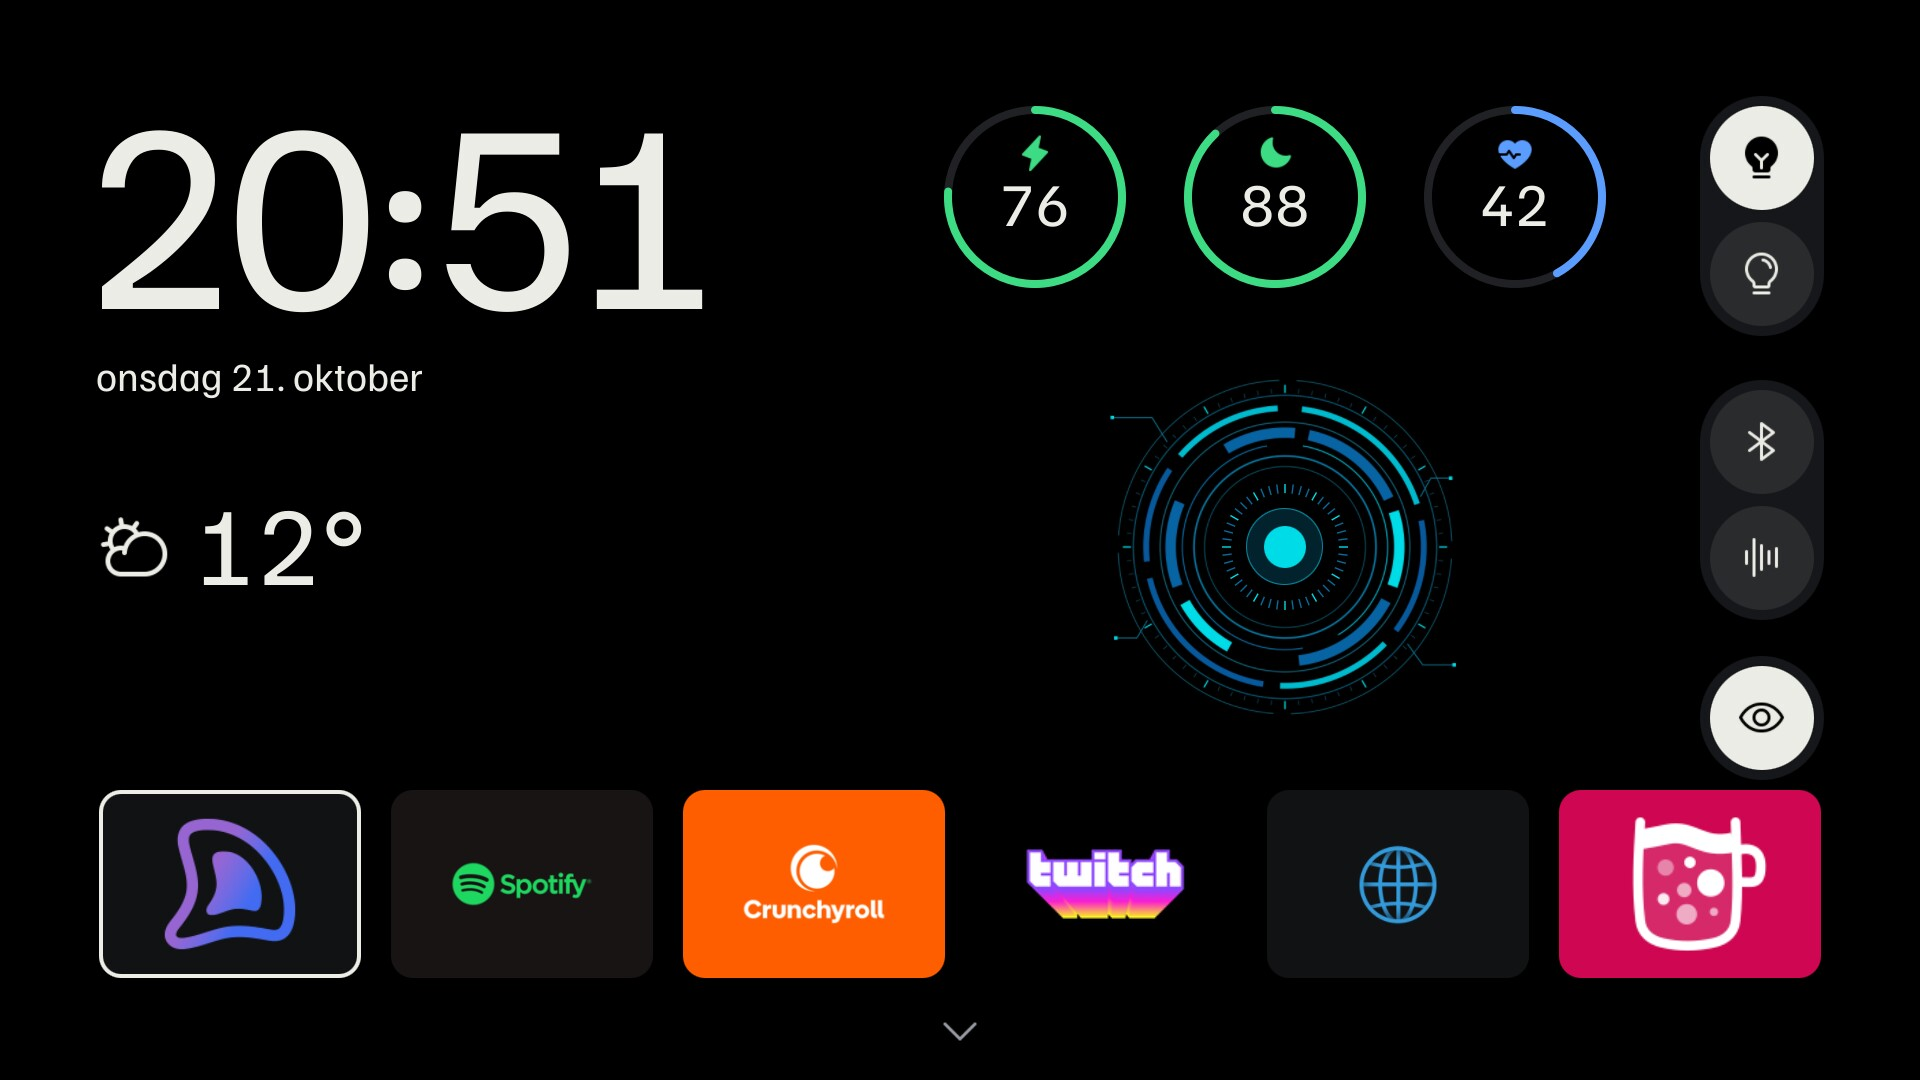
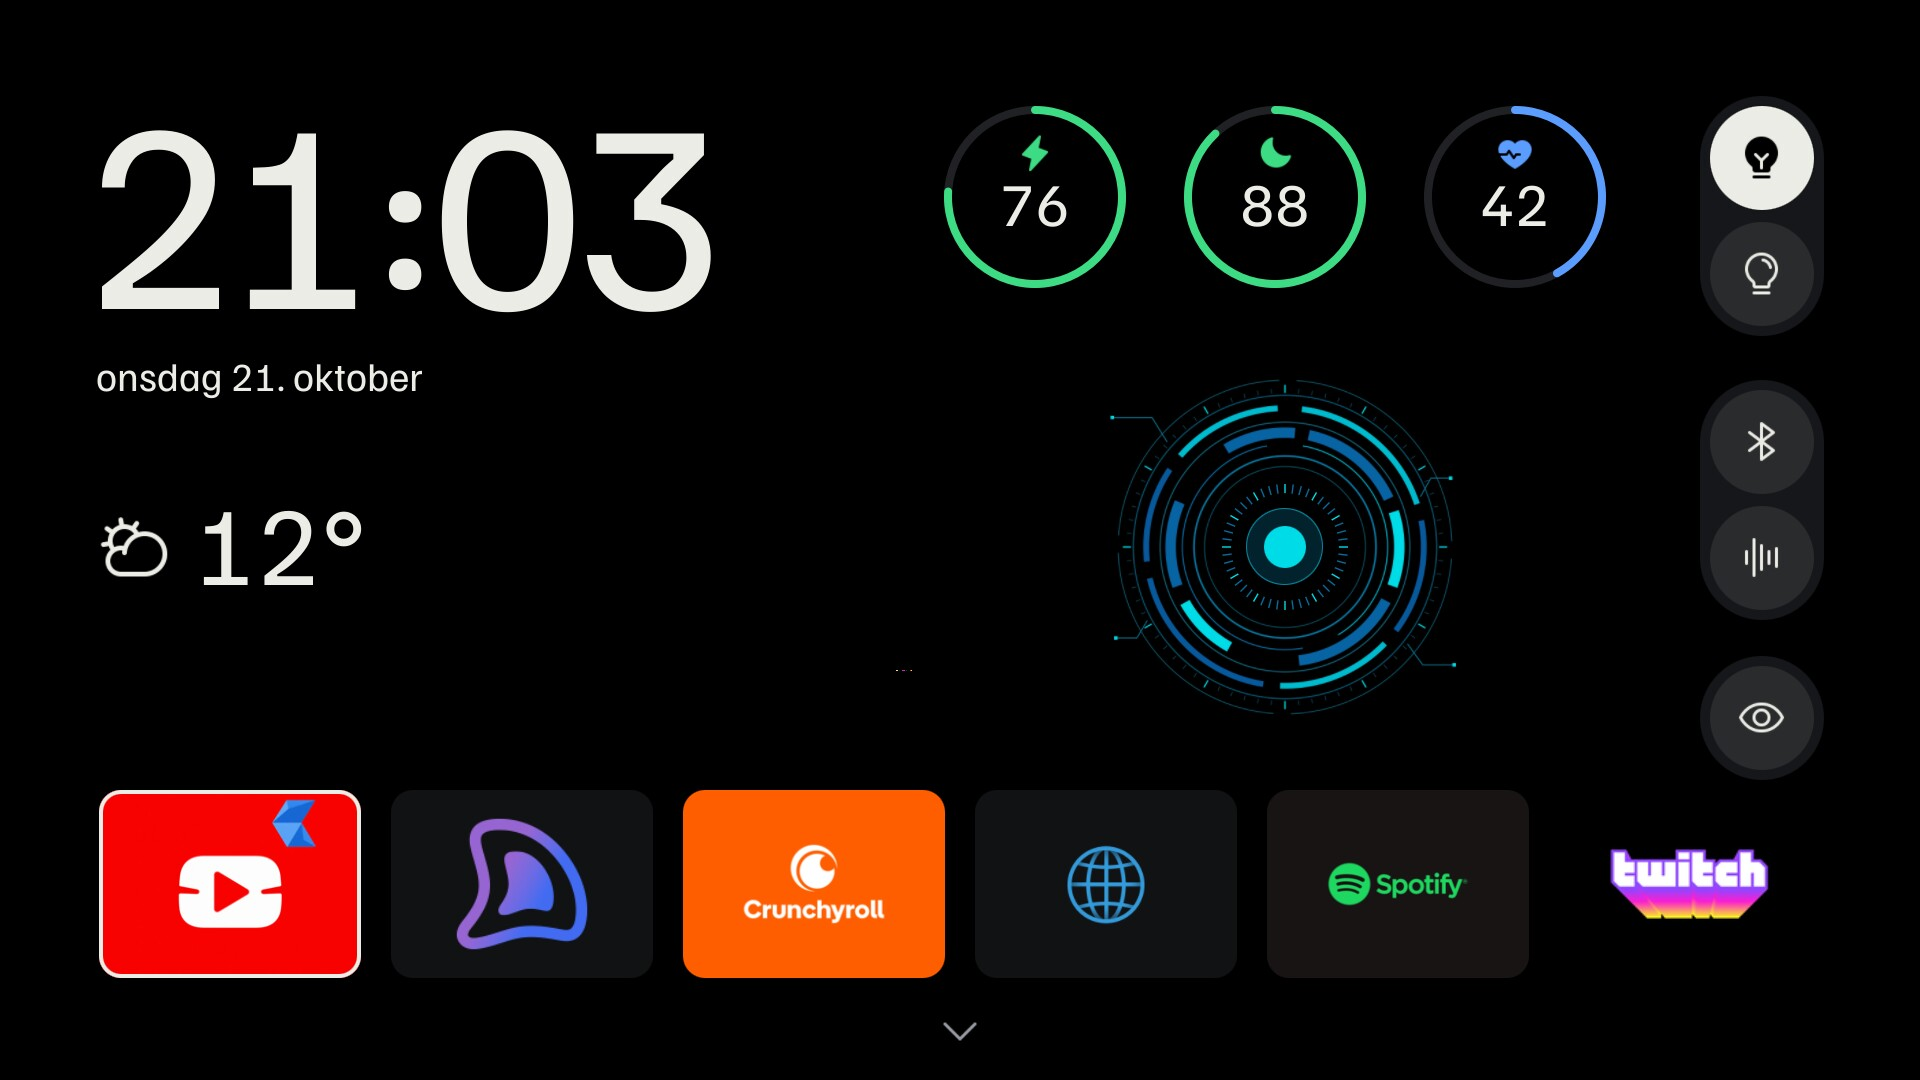
feat(tv): toggle preserved and warm picture profiles

diff --git a/tv/launcher/ui/PictureProfile.qml b/tv/launcher/ui/PictureProfile.qml
@@ -3,6 +3,8 @@ import WebOSServices 1.0
 
 Item {
     id: setting
+    readonly property string normalMode: "cinema"
+    readonly property string warmMode: "expert2"
     property bool active: false
     property var value: null
     property bool pending: false
@@ -12,7 +14,7 @@ Item {
     onActiveChanged: if (active) refresh()
     function read() {
         request = service.call("luna://com.webos.settingsservice", "/getSystemSettings",
-            JSON.stringify({category: "picture", keys: ["eyeComfortMode"]}));
+            JSON.stringify({category: "picture", keys: ["pictureMode"]}));
         timeout.restart();
     }
     function refresh() { if (!pending) { operation = "read"; read(); } }
@@ -33,13 +35,13 @@ Item {
             if (setting.operation === "write") {
                 setting.operation = "verify"; setting.read(); return;
             }
-            var current = data.settings && data.settings.eyeComfortMode;
-            if (current !== "on" && current !== "off") { setting.fail(); return; }
-            setting.value = current === "on";
+            var current = data.settings && data.settings.pictureMode;
+            if (typeof current !== "string" || current.length === 0) { setting.fail(); return; }
+            setting.value = current === setting.warmMode;
             if (setting.operation === "toggle") {
                 setting.operation = "write";
                 setting.request = service.call("luna://com.webos.settingsservice", "/setSystemSettings",
-                    JSON.stringify({category: "picture", settings: {eyeComfortMode: current === "on" ? "off" : "on"}}));
+                    JSON.stringify({category: "picture", settings: {pictureMode: current === setting.warmMode ? setting.normalMode : setting.warmMode}}));
                 timeout.restart(); return;
             }
             setting.request = null; setting.operation = ""; setting.pending = false; setting.failed = false;

diff --git a/tv/launcher/OpenHome.qml b/tv/launcher/OpenHome.qml
@@ -74,7 +74,7 @@ FocusScope {
         if (agentOpen) { agent.speaking = !agent.speaking; return; }
         if (region === "controls") {
             if (controlIndex === 4) agentOpen = true;
-            else if (controlIndex === 5) blueLight.toggle();
+            else if (controlIndex === 5) pictureProfile.toggle();
             else send(commands[controlIndex]);
         } else launch((drawer ? apps : dockApps)[appIndex]);
     }
@@ -219,7 +219,7 @@ FocusScope {
             event.accepted = true;
         }
     }
-    OH.BlueLight { id: blueLight; active: home.visible && uiController.homeShown }
+    OH.PictureProfile { id: pictureProfile; active: home.visible && uiController.homeShown }
     Rectangle { anchors.fill: parent; color: "#000000" }
     // Absorb pointer/wheel input so LG's hidden shelves cannot steal focus.
     MouseArea {
@@ -268,13 +268,13 @@ FocusScope {
         Rectangle { x: r(1700); y: r(656); width: r(124); height: width; radius: width / 2; color: "#16171a" }
         OH.Control {
             x: r(1710); y: r(666); width: r(104); height: width
-            label: "Reducer blåt lys"; glyph: "eye"; primary: blueLight.value === true
-            enabled: blueLight.value !== null
+            label: "Varm natteprofil"; glyph: "eye"; primary: pictureProfile.value === true
+            enabled: pictureProfile.value !== null
             opacity: enabled ? 1 : 0.4
             selected: home.region === "controls" && home.controlIndex === 5
-            pending: blueLight.pending; failed: blueLight.failed
+            pending: pictureProfile.pending; failed: pictureProfile.failed
             onHovered: home.selectControl(5)
-            onActivated: { home.selectControl(5); blueLight.toggle(); }
+            onActivated: { home.selectControl(5); pictureProfile.toggle(); }
         }
         Item {
             id: agentKey; x: r(1110); y: r(372); width: r(350); height: width

diff --git a/tv/DESIGN.md b/tv/DESIGN.md
@@ -11,7 +11,7 @@ interface. This replaces the first worded design saved in commit `fd3497b`.
 - Three recovery rings use Axum's actual Charge/Rest/Effort scores, with the
   dashboard's filled Lightning, Moon and Heartbeat symbols and colours.
 - Two vertical control capsules: lights on/off, then Bluetooth/optical.
-- The eye button has the same 104px size and 124px capsule as the other controls. It toggles the TV’s actual blue-light filter: white is on, dark is off; unknown state is dimmed.
+- The eye button has the same 104px size and 124px capsule as the other controls. It switches picture profiles: white is the warm/dim Expert Dark Room profile, dark is the preserved Cinema profile; unknown state is dimmed.
 - Six large app icons below, without captions. The LG Apps application
   (`com.webos.app.discovery`) is filtered from both the dock and the drawer.
 - A down chevron opens the complete app grid; Back or Up from the first row closes it. No drawer X.
@@ -30,10 +30,18 @@ renders them through React's static renderer, then `rsvg-convert` compiles PNGs
 for LG's Qt build, which has no SVG image loader. The package's MIT license is
 included in the TV bundle. This adds no new JavaScript dependency.
 
-The eye button uses Home’s native Luna settings service for `picture.eyeComfortMode`.
-It reads before toggling, writes only `on`/`off`, and reads back the result. It does
-not predict state. A timeout/error clears the value; periodic/return-to-Home reads
-recover it. Unlike room controls, this is a local TV setting, not an Axum command.
+The eye button uses Home’s native Luna settings service for `picture.pictureMode`.
+It reads before switching between `cinema` and `expert2`, then reads back the
+result. A timeout/error clears the state; periodic/return-to-Home reads recover it.
+It changes no individual picture settings when clicked and leaves LG's global
+Reduce Blue Light switch alone. The two configured profiles belong to the current
+default-input SDR context. Other inputs/HDR profiles are separate.
+
+Cinema preserves the owner's current settings, including backlight100,
+brightness65, Warm3, red gain0, green gain−10 and blue gain−30. Expert Dark Room
+copies its other core picture controls, with backlight30, green gain−15 and blue
+gain−40 for a dimmer, warmer view. RGB offsets remain unchanged. The numerical
+brightness setting controls black level, so dimming uses the backlight instead.
 
 ## Agent
 

diff --git a/tv/FINDINGS.md b/tv/FINDINGS.md
@@ -258,5 +258,28 @@ Tested the enlarged button off and back on; independent Luna reads confirmed
 Warm 3 persists in both states. Homebrew’s RF1705 details page recognises the
 installed v1.2.5 and shows its disabled Update button (already current).
 
+### Separate warm/dim picture profile
+
+The owner chose a profile switch instead of changing the current profile further.
+Preserved the exact current Cinema settings, including the previously applied
+red0/green−10/blue−30 gains and the owner's brightness65/contrast65/color60 values.
+Saved them in ignored `private/picture-normal-preserved.json`. The pre-adjustment
+Cinema gains remain in `private/picture-before-amber.json`.
+
+Selected `expert2` (Expert Dark Room), backed up its original settings to ignored
+`private/picture-expert2-before.json`, then copied Cinema's core picture controls
+with Warm3, backlight30, green gain−15 and blue gain−40. Red and RGB offsets were
+preserved. Readback verified every written value; selecting Cinema again restored
+all queried normal values exactly. The `brightness` black-level control stayed65;
+actual light output is reduced through `backlight`.
+
+The native eye component now reads/writes `pictureMode` (`cinema`/`expert2`) and
+reads back the result. It no longer changes `eyeComfortMode`, which stays as the
+owner had it. A white eye identifies the warm/dim profile; a dark eye identifies
+Cinema. These presets are configured for the current default-input SDR context.
+The actual remote eye was tested in both directions: expert2/backlight30 on,
+then a complete equality check against all preserved Cinema values on return.
+The screenshot was refreshed after the owner moved YouTube into the first slot.
+
 See [design and public data provenance](DESIGN.md), [API boundary](bridge/README.md)
 and [rollback](ROLLBACK.md). Original Pear remains under `/var/lib/pearwebos-baseline`.

diff --git a/tv/README.md b/tv/README.md
@@ -69,8 +69,8 @@ Magic Remote hover/click also works. No selection indicates observed device stat
 The LG Apps tile is hidden from both dock and drawer; its firmware is preserved.
 LG Input Hook is visible. Bluetooth/optical and the full-size eye button share
 the right rail’s circle/capsule design, without a speaker header or volume buttons.
-The eye button toggles the TV’s Reduce Blue Light
-setting; white means enabled, dark means disabled, and dim means unknown.
+The eye button switches picture profiles: white means the warm/dim Expert Dark
+Room profile, dark means the preserved Cinema profile, and dim means unknown.
 Opaque app backgrounds fill their rounded cards; transparent logos keep their sizing.
 
 ## YouTube updates and picture warmth
@@ -81,11 +81,12 @@ AdFree** at the top of its catalogue for updates; the default repository's
 Stable v1.2.5 is installed as `youtube.leanback.v4`; the old v1.1.7
 `com.cobalt.youtube.adfree` installation was backed up and removed.
 
-The current default-input SDR Cinema picture uses Warm 3, with Reduce Blue Light
-on. Its stored Warm 50 slider is inactive in this mode. The eye button controls LG's on/off
-Reduce Blue Light setting; the warmer base preset remains when it is off.
-Other inputs/picture profiles retain their settings. See [rollback](ROLLBACK.md)
-to restore the prior Warm 2 preset.
+The eye switches the current SDR input between Cinema and Expert Dark Room.
+Cinema preserves the owner's settings: Warm3, backlight100, green gain−10 and
+blue gain−30. Expert Dark Room uses Warm3, backlight30, green gain−15 and blue
+gain−40, with the other core picture controls copied from Cinema. The eye leaves
+LG's global Reduce Blue Light setting unchanged. Other inputs/HDR profiles remain
+separate. See [rollback](ROLLBACK.md) for saved profile settings and restoration.
 
 ## Future voice input
 

diff --git a/tv/ROLLBACK.md b/tv/ROLLBACK.md
@@ -106,3 +106,18 @@ The RF1705 repository can be removed from Homebrew Channel's Settings by selecti
 its URL/trash icon. This does not uninstall YouTube. The old v1.1.7 application
 folder backup is `private/youtube-legacy-1.1.7.tar.gz`; it is an emergency file
 backup, not a redistributable IPK or a verified reinstall procedure.
+
+## Restore the normal picture profile
+
+The eye now switches picture profiles. To return to the preserved Cinema profile:
+
+```sh
+devenv shell -- just tv-ssh "/var/lib/pearwebos/luna-send-n -n 1 luna://com.webos.settingsservice/setSystemSettings '{\"category\":\"picture\",\"settings\":{\"pictureMode\":\"cinema\"}}'"
+```
+
+`private/picture-normal-preserved.json` contains the normal settings captured
+before configuring Expert Dark Room; `private/picture-expert2-before.json` contains
+its prior values. Restore only the backed-up target profile's `settings` object
+while that profile and input are active. `private/picture-before-amber.json`
+records Cinema's RGB gains before the earlier green−10/blue−30 adjustment;
+restoring those two gains to0 removes that tint while retaining Warm3.
